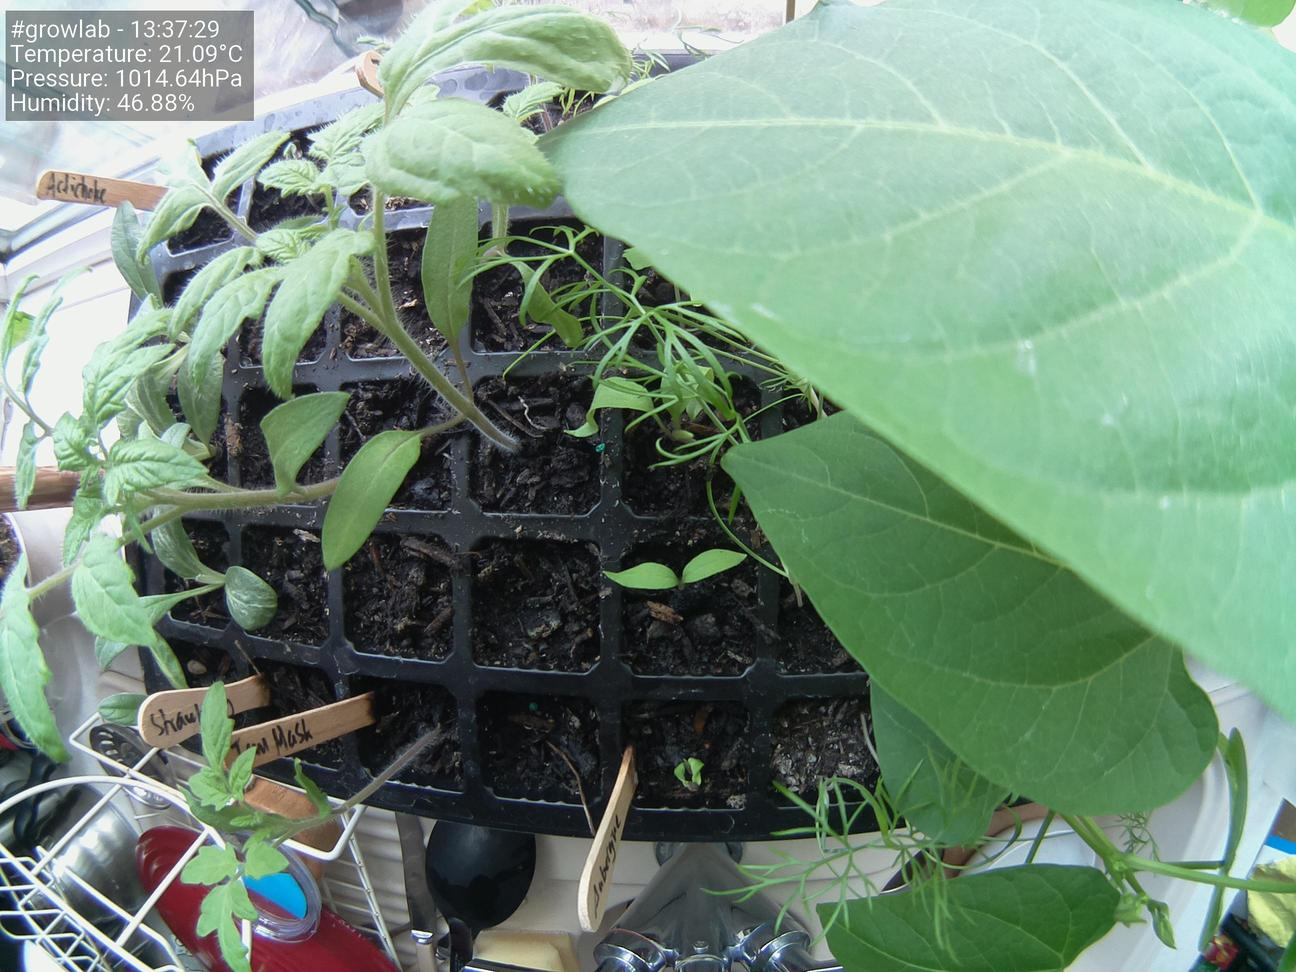
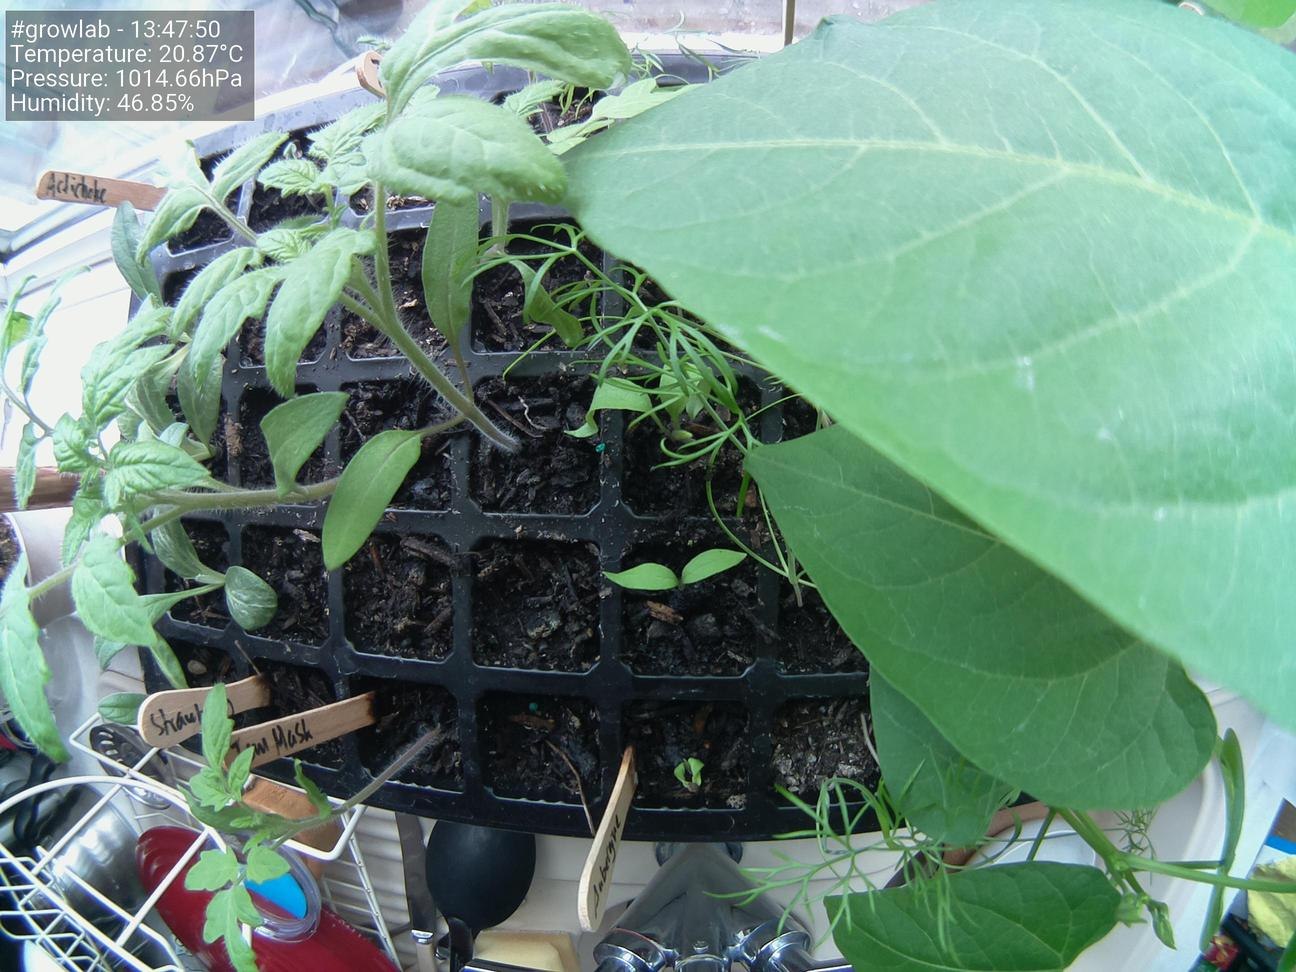
Update images at Fri 30 Apr 13:48:02 BST 2021

diff --git a/docs/index.html b/docs/index.html
@@ -38,19 +38,19 @@
                     <tbody>
                         <tr>
                             <td>Time</td>
-                            <td>13:37:29</td>
+                            <td>13:47:50</td>
                         </tr>
                         <tr>
                             <td>Temperature</td>
-                            <td>21.09°C</td>
+                            <td>20.87°C</td>
                         </tr>
                         <tr>
                             <td>Humidity</td>
-                            <td>46.88%</td>
+                            <td>46.85%</td>
                         </tr>
                         <tr>
                             <td>Pressure</td>
-                            <td>1014.64hPa</td>
+                            <td>1014.66hPa</td>
                         </tr>
                     </tbody>
                 </table>
@@ -58,7 +58,7 @@
 
                 <h5>Latest image</h5>
 		<div style="width: 85%;">
-	                <img class="figure-img img-fluid rounded" src="./preview.jpg?uid=1619786260.8149042">
+	                <img class="figure-img img-fluid rounded" src="./preview.jpg?uid=1619786881.9138784">
 		</div>
             </div>
         </div>
